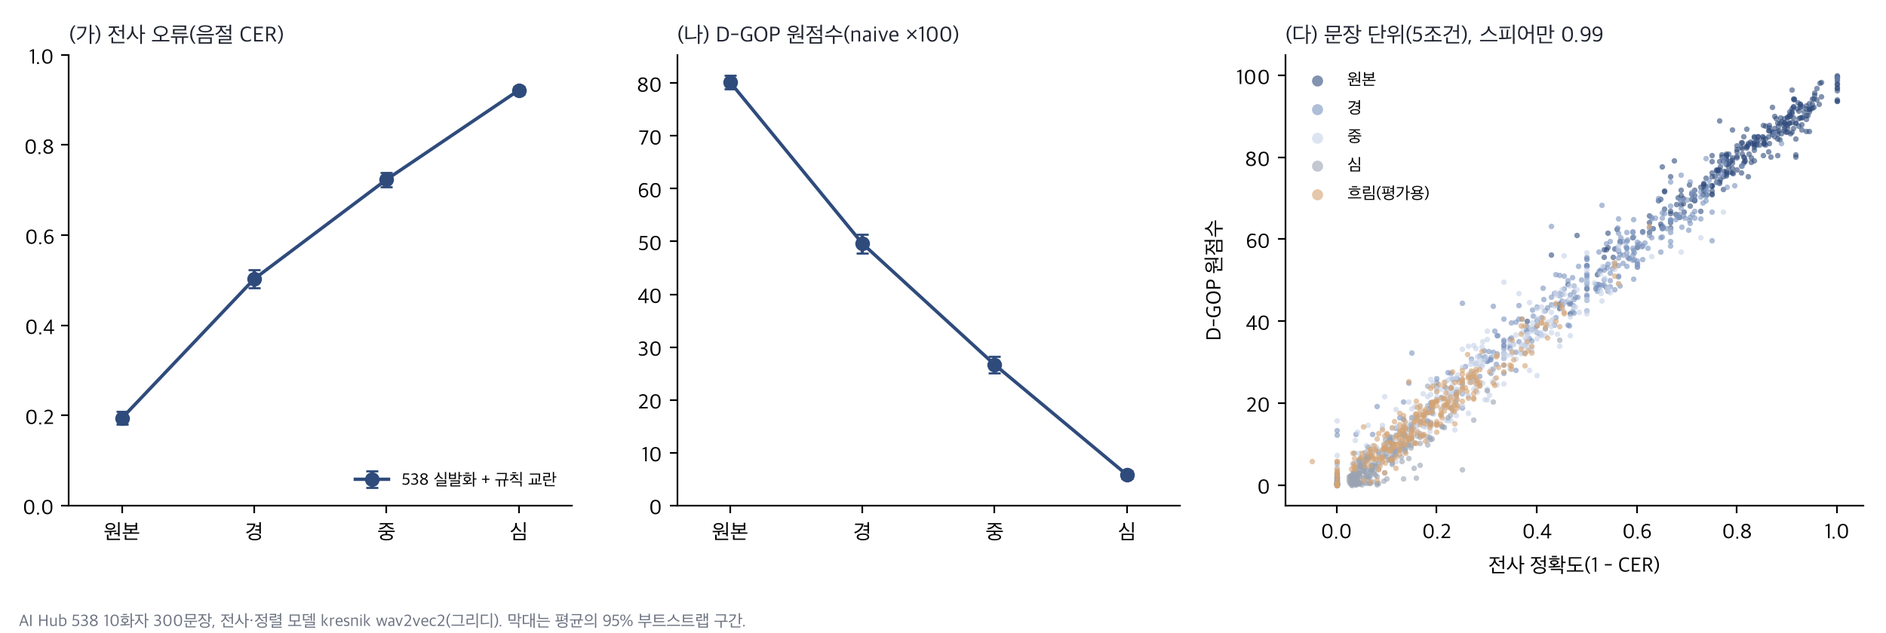
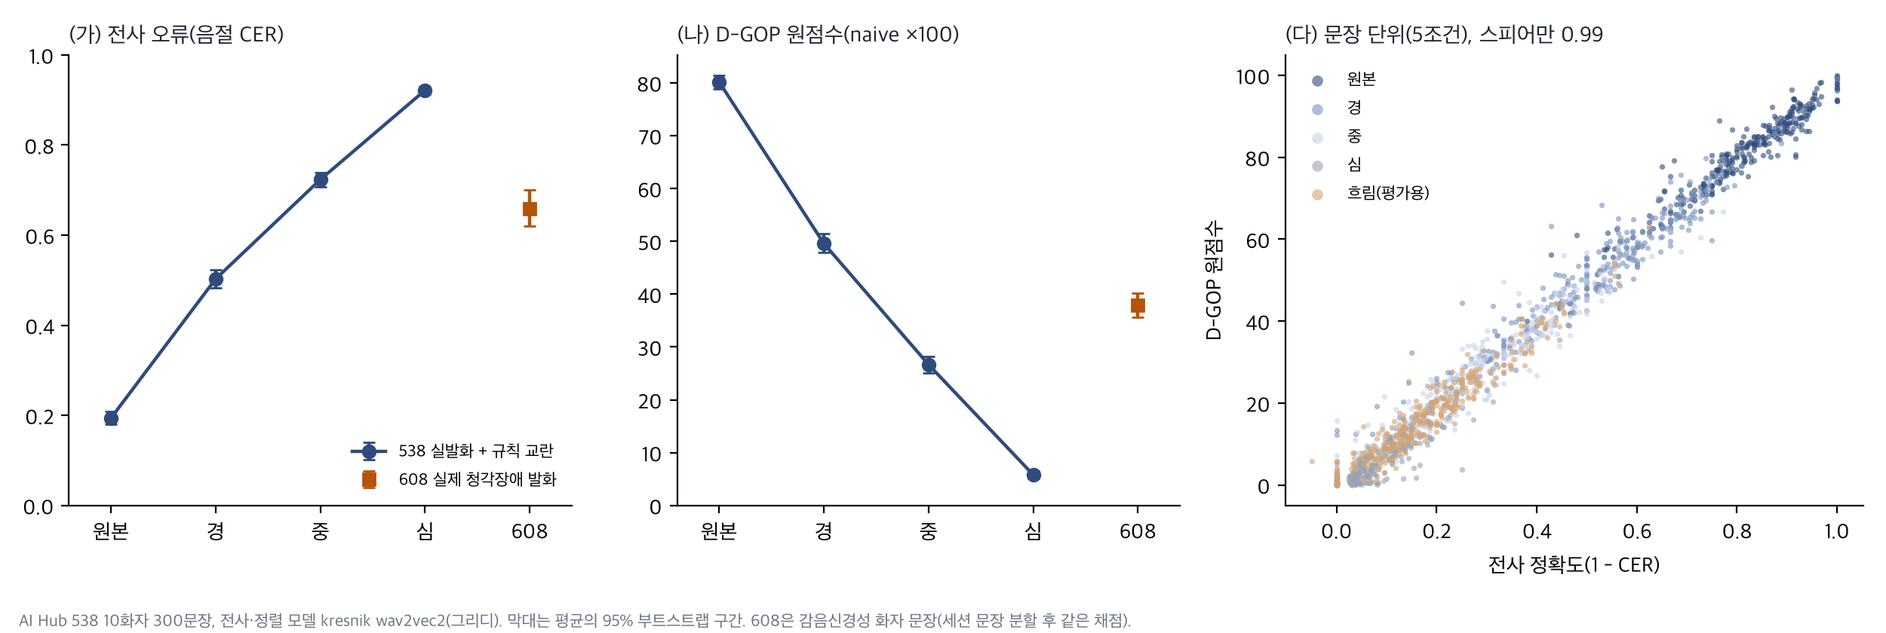
docs(A·B): 자체 채점 모델 학습·재검 통과, 608 실제 청각장애 발화 측정, kNN-VC 부정 결과
- docs/scorer-selftrain.md: 학습(A100 약 3시간), 1차 관문 FAIL(+2.7%p [0.0, 5.7]), 608 분리도 0.892 → 0.933,
  독립 재검 통과(+3.8%p [2.3, 5.5]), 표시 앵커, kNN-VC 충실도(규칙 합성보다 실제 발화와 멂), 맞는·틀린 문장 가르기
  (다른 문장은 두 모델 모두 합격선 아래, 한두 음절 자음 바꿈은 둘 다 못 거름), 호스팅 점검.
- 그림 7에 608 감음신경성 669문장 추가: CER 0.66·D-GOP 38로 합성 경과 중 사이.
- report-notes·팀 공유 현황·STATUS를 9/25 기준으로 갱신(608 확보, 설계 편차, GPU 사용 $64.34).

diff --git a/docs/scorer-selftrain.md b/docs/scorer-selftrain.md
@@ -1,0 +1,129 @@
+# 자체 학습 발음 채점 모델과 실제 청각장애 발화 평가(A-1·A-2·B, 2026-09-25)
+
+팀원 비공개 체크포인트(`duadnwls/liplab-dgop-*`)는 옛 채점식(음소 확률 × 확신도)을 기준으로 설계·검증돼 쓰지 않기로 했다
+(작성자 확인). 같은 레시피(`scripts/train_jamo_ctc.py`, `scripts/train_aligner.py`)로 채점기와 정렬기를 우리가 다시 학습하고,
+지금 앱이 쓰는 공개 모델(kresnik/wav2vec2-large-xlsr-korean)과 같은 채점식(naive, `dgop.sentence_dgop`)·같은 정렬 코드(9/24
+blank 수정판)로 비교했다. 판정 기준은 학습 전에 적었다(`liplab-lab/notes/scorer_prereg_2026-09-25.md`).
+
+요약: 1차 평가(538 10화자)는 단조 비율이 +2.7%p 올랐지만 신뢰구간 하한이 0이라 관문에서 떨어졌고, 실제 청각장애 발화(608)의
+정상 대비 분리도는 0.892에서 0.933으로 올랐다. 1차 뒤 등록한 독립 재검(538 새 20화자)에서 +3.8%p [2.3, 5.5]로 관문을 통과해,
+우리 정렬기·채점기를 liplab-dev 채점 모델 후보로 올렸다(배포 전). 자기지도 음성변환(kNN-VC)은 실제 청각장애 발화를 규칙 합성보다
+덜 닮아 부정 결과로 남긴다.
+
+## 1. 학습(RunPod A100 80GB, 약 3시간)
+
+| 단계 | 설정 | 시간 | 검증 손실 |
+|---|---|---|---|
+| A-1 채점기 stage1 | 출력층만, 3에폭, lr 1e-3 | 9분 | 0.343 → 0.324 |
+| A-1 채점기 stage2 | 전체 311M, 12에폭, lr 3e-5 | 1시간 56분 | 0.304 → 0.222(9/8 H100 기록 0.209) |
+| A-2 정렬기 | A-1에서 이어 4에폭, 저하 severity 0~4 증강 | 43분 | |
+
+데이터는 Zeroth-Korean(공개, 51.6시간)이다. 산출물은 `liplab-lab/models/dgop_ours_2026-09-25/{scorer,aligner}`(각 1.26GB,
+sha256 채점기 `6b960da4…`, 정렬기 `0e586260…`)에 보관했다.
+
+## 2. 평가 1(주 판정): AI Hub 538 실발화 + 합성 저하
+
+538 10화자 300문장에 규칙 저하(경·중·심)를 걸어 문장마다 원점수가 원본 ≥ 경 ≥ 중 ≥ 심 순서인지 본다.
+
+| 모델 | 원본 | 경 | 중 | 심 | 단조 비율 | AUC(원본 > 심) |
+|---|---|---|---|---|---|---|
+| kresnik(지금 앱) | 80.2 | 49.7 | 26.6 | 5.8 | 95.7% | 1.000 |
+| 우리 모델 | 85.0 | 53.6 | 30.5 | 9.2 | 98.3% | 1.000 |
+
+- 단조 비율 +2.7%p, 화자 부트스트랩 95% CI [0.0, 5.7]. 관문(Δ ≥ +2%p **이고 CI 하한 > 0**)에서 하한이 정확히 0이라 **FAIL**이다.
+  AUC는 두 모델 모두 1.000으로 합성 저하가 너무 쉬워 가르지 못한다(9/14 E1과 같은 천장).
+- kresnik 결과는 9/24 재측정(80.2·49.6·26.7·5.8)과 같게 재현됐다.
+
+## 3. 평가 2(보조): 실제 청각장애 발화(AI Hub 608 범주 28 감음신경성)
+
+608 TS02(101GB)를 끝까지 흘려받아 범주 28 세션 27개(27명, 30분 이하, 화자당 1개)를 확보했다. 세션 전체를 kresnik으로
+강제정렬해 문장으로 자르고(`b608_measure.py`, 세션당 최대 40문장) 두 모델로 같은 문장을 채점했다.
+
+| | kresnik | 우리 모델 |
+|---|---|---|
+| 채점된 문장 | 660/669(정렬 실패 9) | 669/669 |
+| 원점수 평균(정상 538 / 청각장애 608) | 80.2 / 38.0 | 85.0 / 50.6 |
+| 분리도 AUC(정상 > 청각장애) | 0.892 | **0.933**(+0.041) |
+
+- 전사 오류(kresnik 음절 CER 평균)는 정상 0.19, 청각장애 0.66(3.4배)이고, 문장 전체를 맞게 옮긴 비율은 1.8%다.
+  그림 7에 608을 더했다(`docs/figures/fig7_b_remeasure.png`): 실제 청각장애 발화는 전사 오류(0.66)로도 D-GOP(38.0)로도
+  합성 '경'(0.50, 49.7)과 '중'(0.72, 26.6) 사이에 놓인다. 규칙 합성의 강도 범위가 실제 발화를 덮는다는 뜻이다(A-10).
+- 표시 점수 확인(A-7): 지금 앱의 kresnik 앵커(`backend/data/dgop_calibration_kresnik.json`)로 환산하면 608 문장은 중앙값
+  66.2점(평균 57.1점)이고, 58점('중' 앵커) 미만 39%, 40점('심' 앵커) 미만 25%다. 바닥이나 천장에 몰리지 않아 앵커를 유지한다.
+- 608 범주 28에는 노인성 난청 화자(70~90대)도 섞여 있어 선천성 농인 발화와 같지 않다.
+
+## 4. 독립 재검(538 spk311~330, 20명 600문장): 통과
+
+1차가 화자 10명이라 신뢰구간이 넓어 경계에서 떨어졌으므로, 1차에 쓰지 않은 화자로 같은 관문을 한 번 더 쟀다(학습·1차 결과를
+본 뒤 실행 전에 등록: `liplab-lab/notes/scorer_prereg_replication_2026-09-25.md`). 두 번째 시험이라 1차와 합치지 않고
+재검 결과만으로 판정한다. 첫 재검 파드는 워치독 마감에 결과를 잃어 같은 설계로 다시 돌렸다(RTX 4090, 추론만).
+
+| 모델 | 원본 | 경 | 중 | 심 | 단조 비율 | AUC(원본 > 심) |
+|---|---|---|---|---|---|---|
+| kresnik(지금 앱) | 79.8 | 53.4 | 29.4 | 5.8 | 95.8% | 1.000 |
+| 우리 모델 | 84.7 | 57.3 | 31.7 | 8.3 | 99.7% | 1.000 |
+
+- 단조 비율 +3.8%p, 화자 부트스트랩 95% CI [2.3, 5.5], AUC 차 0.000으로 세 조건을 모두 만족해 **통과**다.
+  ASR CER은 두 모델이 같다(전사는 둘 다 kresnik, 0.19·0.47·0.70·0.92).
+- 1차(+2.7%p, [0.0, 5.7])와 재검(+3.8%p, [2.3, 5.5]) 모두 같은 방향이다. 보고서에는 1차 FAIL과 재검 통과를 함께 적는다.
+- 사전등록 규칙대로 우리 정렬기·채점기를 liplab-dev 채점 모델 후보로 올린다(6절). 평가 2의 보류 조건(608 분리도가 0.02
+  넘게 낮음)에는 해당하지 않는다(+0.041).
+
+## 5. 보고용 부가 측정(판정에 쓰지 않음)
+
+- A-3(Zeroth test 50발화 합성 저하): 우리 모델 단조성 1.000, 분리도 1.000, 정렬 견고성 1.000(천장).
+- 표시 앵커(우리 모델용, `backend/data/dgop_calibration_ours.json`): kresnik 앵커와 같은 538 10화자 300문장의 조건별 원점수
+  중앙값 86.0·54.5·30.4·8.2를 표시 90·72·58·40에 맞췄다. 맞출 때 쓰지 않은 재검 20화자에서 표시 중앙값은 90.0·74.7·58.9·39.4로
+  거의 그대로다(kresnik 앵커는 같은 화자에서 89.2·75.2·60.7·41.8). 608 실발화는 우리 모델로 표시 중앙값 72.3점(65점 이상 64%)이다.
+  A-4 절차(Zeroth 50발화 severity 0~4)로 맞춘 앵커(91.2·44.6·24.1·7.1·3.0 → 90·72·58·40·20)는 538 조건을 88.5·77.1·63.2·42.0으로
+  매겨 kresnik 앵커와 눈금이 달라 쓰지 않는다.
+- A-2·A-10(자기지도 음성변환 충실도, `liplab-lab/tools/a2_knnvc.py`): kNN-VC(WavLM-large 6층 최근접 이웃, HiFi-GAN)로 538 정상
+  60문장을 608 화자 6명의 목소리로 바꿨다(360개). 변환본은 CER 0.35, D-GOP 65.6으로 원문(0.20, 79.5)에서 조금만 움직였고 실제
+  608(0.66, 38.0)과는 멀다. 실제 608 분포와의 1차 Wasserstein 거리는 CER 기준 kNN-VC 0.33, 규칙 합성 경 0.21·중 0.22·심 0.35,
+  D-GOP 기준 kNN-VC 27.7, 경 16.3·중 17.2·심 32.2다. 목표 화자별로 보면 실제 CER이 0.24~1.00으로 넓은데 변환본은 0.26~0.47에
+  머문다. kNN-VC는 음색을 옮기지만 원문 화자의 조음·운율을 따르므로 청각장애 발화의 명료도 저하는 재현하지 못한다.
+  그래서 합성 코퍼스는 규칙 합성(경~중)을 쓰고, 음성변환은 부정 결과로 보고한다(계획서 A-10의 충실도 확인과 폴백).
+- 맞는 문장과 틀린 문장 가르기(`liplab-lab/tools/mismatch_check.py`, 재검 589클립, 목표 문장 규칙은 `bfuse_validate.py`와 같다):
+
+  | 소리 | 틀린 목표 | kresnik AUC | 우리 AUC | 차이 [95% CI] | 틀린 목표 65점 이상(kresnik / 우리) |
+  |---|---|---|---|---|---|
+  | 원본 | 다른 문장 | 1.000 | 1.000 | 0.000 | 0% / 0% |
+  | 원본 | ㅁ↔ㅂ·ㄴ↔ㄷ 1~2음절 | 0.675 | 0.678 | +0.003 [−0.012, +0.019] | 99% / 100% |
+  | 중 | 다른 문장 | 0.972 | 0.972 | +0.000 [−0.007, +0.008] | 0% / 0% |
+  | 중 | ㅁ↔ㅂ·ㄴ↔ㄷ | 0.545 | 0.524 | −0.021 [−0.027, −0.016] | 26% / 19% |
+  | 심 | 다른 문장 | 0.765 | 0.794 | +0.029 [+0.002, +0.059] | 0% / 0% |
+  | 심 | ㅁ↔ㅂ·ㄴ↔ㄷ | 0.515 | 0.509 | −0.007 [−0.015, +0.002] | 0% / 0% |
+
+  다른 문장을 목표로 주면 두 모델 모두 합격선(65점)을 넘긴 적이 없다. 우리 모델은 틀린 문장에 조금 높은 표시 점수를 주지만
+  (원본 중앙값 50.3점, kresnik 41.2점) 심한 저하에서는 더 잘 가른다. 한두 음절의 비음·파열음 바꿈은 같은 클립 안에서는
+  참 문장이 이기지만(원본 승률 98~99%) 점수 차가 2~3점이라 문장 점수로는 걸러지지 않는다. 문장 점수의 한계이며, 이런 오류는
+  음소별 점수로 보여 줘야 한다.
+- 4.2-11 예비: 608 라벨에는 중증도 등급이 없어(`Disease_info`·`Patient_info`만) 전문가 판정의 대리로 쓸 수 없다. 전사 오류를 명료도
+  대리로 삼으면 화자 27명의 평균 D-GOP(우리 모델)와 평균 CER(1로 자름)의 순위상관은 0.94 [0.83, 0.97]이다. kresnik D-GOP는
+  0.99지만 전사와 같은 모델이라 독립 검증이 아니다. 전문가 판정과의 상관(본 검증)은 라벨셋이 있어야 한다.
+
+## 6. 앱 반영(liplab-dev 후보, 배포 전)
+
+- 배포는 사용자 지시 뒤에 한다. 전시앱(`fly.toml`)은 바꾸지 않는다.
+- 호스팅 점검(이미지와 같은 의존성, torch CPU 2스레드, 실제 음성 3문장, 같은 파드에서 비교):
+
+  | | kresnik(9/24 설정) | 우리 모델 |
+  |---|---|---|
+  | 올라오는 모델 | 1개 + 아바타 백본 | 정렬기·채점기 2개 + 아바타 백본 |
+  | 최대 메모리 | 3.1GB | 5.0GB |
+  | 발음 채점 지연(문장당) | 0.9~1.2초 | 1.6~2.0초 |
+  | 맞는 문장 / 다른 문장 표시 점수 | 86~95 / 0~45 | 88~93 / 45~48 |
+
+- 설정: `fly.dev.toml`이 `DGOP_MODEL=ours`로 빌드하고 `DGOP_ALIGNER_ID`·`DGOP_SCORER_ID`·`DGOP_CALIBRATION`이 이미지 안 체크포인트와
+  앵커를 가리킨다. 기계는 메모리 8GB(shared-cpu 4개)로 올렸다. 체크포인트는 `backend/models/dgop_ours/`에 두고 git에서 뺐으며,
+  없으면 빌드가 멈춘다. 절차와 되돌리기는 `DEPLOY.md` 9항.
+- 이 점검에서 새로 만든 가상환경은 SQLAlchemy 2.1을 받아 greenlet이 빠지고 앱이 뜨지 않았다. `sqlalchemy[asyncio]`로 고쳤고
+  (ba3f8a7) 같은 새 의존성에서 백엔드 테스트 248개가 통과했다. 지금 떠 있는 이미지는 옛 판이라 영향이 없다.
+
+## 7. 원자료
+
+- 학습·1차·608: `liplab-lab/data/pod_runs/20260925_x3epy95m72dfgl/`(b_kresnik·b_ours·b608_*·scorer_compare*·로그)
+- 재검·kNN-VC·호스팅 점검·문장 가르기: `liplab-lab/data/pod_runs/20260925_a39mpqnc24np42/`(eval/rep/rep_*.json·rep_compare.json,
+  eval/a2_knnvc.json, eval/mm/mismatch.json, hostcheck/; a2_samples는 AI Hub 파생이라 저장소 밖에만 둔다)
+- 도구 `liplab-lab/tools/remeasure_b.py`(--aligner/--scorer), `b608_measure.py`(같은 인자, FLAC 입력), `scorer_compare.py`(관문 판정),
+  `a2_knnvc.py`, `mismatch_check.py`, 파드 단계 `tools/pod/run_scorer.sh`·`run_608.sh`·`run_rep2.sh`, 병렬 업로드 `tools/pod/pupload.py`

diff --git a/docs/report-notes.md b/docs/report-notes.md
@@ -24,6 +24,10 @@
   D-GOP 채점은 한국어 CTC 헤드가 필요). 그래서 '모델 하나'가 아니라 '적재·캐시·장치 관리 지점 하나'로 구현했다
   (`backend/backbone_service.py`, 상태 `GET /api/backbone/status`). 같은 모델 id와 장치를 쓰는 축은 가중치 한 벌을 나눠 쓴다.
   보고서에는 "통합 백본 대신 축별 백본을 한 서비스에서 관리"로 쓰고, 그림 12와 맞춘다. AV-HuBERT(A-5)는 라이선스 때문에 쓰지 않았다.
+- **A-2·A-10(자기지도 음성변환 충실도, 9/25, 부정 결과).** kNN-VC(WavLM-large 6층, HiFi-GAN)로 538 정상 60문장을 608 감음신경성
+  화자 6명의 목소리로 바꾼 360개는 CER 0.35·D-GOP 65.6으로, 실제 608(0.66·38.0)보다 원문(0.20·79.5)에 가깝다. 실제 608 분포와의
+  1차 Wasserstein 거리도 규칙 합성 경·중(CER 0.21·0.22, D-GOP 16.3·17.2)보다 멀다(0.33, 27.7). 음색은 옮기지만 원 화자의 조음을
+  따르기 때문이다. 합성 코퍼스는 규칙 합성으로 가고, 계획서 A-10의 충실도 확인 결과로 적는다. 근거: `docs/scorer-selftrain.md` 5절.
 
 ## 축 B. 전사 비의존 발음채점(D-GOP)
 
@@ -44,13 +48,15 @@
   교란 발화를 더 낮게(경 72·중 58) 매긴다. **9/24 결정:** 공개 kresnik 모델을 정렬기·채점기로 쓸 때는 그 모델로 맞춘 후보 앵커를
   쓴다(`backend/data/dgop_calibration_kresnik.json`, 채점기에 따라 자동 선택). 지금 앵커(9/9)는 팀원 채점기용이라 그 모델에
   남긴다. 608 실제 청각장애 발화나 파일럿 발화가 생기면 다시 맞춘다. 근거: `liplab-lab/data/a7_calibration_538_fixed.json`.
-- **실제 청각장애 발화(그림8).** 정상(538, n=40) CER 0.219 대 608 언어청각장애 3화자(n=5) CER 0.401, 약 1.83배.
-  표본이 작다. 608 감음신경성 화자 세션을 문장 단위로 잘라 CER과 D-GOP를 다시 재려 했으나(`liplab-lab/tools/b608_measure.py`),
-  9/24 TS02(108GB)를 끝까지 흘려받고 보니 라벨로 고른 38세션이 TS02에 없었다. TS02에는 범주 28(감음신경성) 185파일이 약
-  93GB 지점부터 있고 범주 32는 없다(608의 검증 묶음은 뇌신경장애뿐이라 다른 출처도 없다). 범주 28을 화자별로 고르는
-  다시 받기는 2차에서 끝까지 갔지만 범주 28 wav가 deflate 압축이라 저장 방식만 받던 코드가 모두 건너뛰었고, 풀기를 더한
-  3·4차는 서버 연결이 끊겼다(직후 재시작은 곧바로, 4차는 42GB에서). 서버가 범위 요청을 받지 않아 약 3시간을 끊김 없이
-  받아야 한다. 그래서 608 측정과 이를 쓰는 kNN-VC(A-2)는 아직 없다.
+  **9/25 608 확인:** 이 앵커로 실제 청각장애 발화 669문장은 중앙값 66.2점(평균 57.1점), 58점 미만 39%, 40점 미만 25%로
+  바닥·천장에 몰리지 않아 앵커를 유지한다. 근거: `docs/scorer-selftrain.md` 3절.
+- **실제 청각장애 발화(그림8, 9/25 측정).** 608 TS02(101GB)를 끝까지 흘려받아 범주 28(감음신경성) 세션 27개(27명, 30분 이하,
+  화자당 1개)를 확보했다(9/24에는 라벨로 고른 세션이 TS02에 없었고, 범주 28은 deflate 압축이라 풀기를 더해 다시 받았다).
+  세션을 kresnik 강제정렬로 문장 단위로 잘라(세션당 최대 40문장, 669문장) 538과 같은 채점으로 쟀다(`liplab-lab/tools/b608_measure.py`).
+  kresnik 음절 CER 평균은 정상 0.19 대 청각장애 0.66(3.4배), 문장 전체를 맞게 옮긴 비율은 약 4% 대 1.8%, D-GOP 원점수는
+  80.2 대 38.0이다. 실제 발화는 CER로도 D-GOP로도 합성 '경'과 '중' 사이에 놓인다(그림 7에 608 추가). 9/23의 1.83배(n=5)는
+  이 값으로 바꾼다. 범주 28에는 노인성 난청(70~90대)도 섞여 있어 선천성 농인 발화와 같지 않다고 적는다.
+  근거: `docs/scorer-selftrain.md` 3절, `docs/figures/fig7_b_remeasure.png`.
 - **B-5·B-6(9/24 구현, 검증 결과 판별력 저하).** 음소마다 소리 점수와 입모양 점수를 섞는다(영상 가중 0.25 + 0.5 × (1 − 소리/100),
   음소 정렬 구간 ±0.08초의 웹캠 입모양). 538 200클립 검증에서 맞는 문장과 다른 문장을 가르는 AUC가 소리만보다 낮았다
   (심 교란 0.778 → 0.583, 중 0.974 → 0.800). 지금 입모양 점수(규칙 프로파일 코사인)는 그 자체로 우연 수준(AUC 0.49~0.53)이라
@@ -60,6 +66,13 @@
 - **B-8(호스팅에서 D-GOP 켜기, 9/24 코드 반영, 배포 전).** 개발 서버(liplab-dev) 설정이 torch CPU와 모델 두 개를 이미지에 넣고
   D-GOP를 주 경로로 쓴다(전사는 폴백). 전시앱 설정은 그대로다. 자세한 내용은 `DEPLOY.md` 9항.
   배포 전 점검(같은 의존성, CPU 2스레드): 최대 메모리 3.1GB, 채점 문장당 1.4~1.7초, 맞는 문장 86~95점·다른 문장 0~45점.
+- **자체 학습 정렬기·채점기(A-1·A-2 레시피 재학습, 9/25).** 팀원 체크포인트는 옛 채점식 기준이라 쓰지 않고, 같은 레시피로
+  Zeroth(공개)에서 다시 학습했다(RunPod A100 약 3시간). 사전등록 관문(538 합성 저하 단조 비율 +2%p 이상, 화자 부트스트랩 CI
+  하한 > 0)에서 1차(10화자)는 +2.7%p [0.0, 5.7]로 떨어졌고, 1차 뒤 등록한 독립 재검(새 20화자)은 +3.8%p [2.3, 5.5]로 통과했다.
+  실제 청각장애 발화(608 27명 669문장)의 정상 대비 분리도 AUC는 kresnik 0.892, 자체 0.933. 다른 문장을 목표로 주면 두 모델 모두
+  합격선을 넘지 않고, 한두 음절 비음·파열음 바꿈은 둘 다 문장 점수로 거르지 못한다(음소별 점수로 보여 줄 부분).
+  liplab-dev 채점 모델을 자체 모델로 바꿨다(배포 전, 메모리 5.0GB라 8GB 기계). 보고서에는 1차 FAIL과 재검 통과를 함께 적는다.
+  근거: `docs/scorer-selftrain.md`.
 
 ## 축 C. 시각 지각공간
 
@@ -194,14 +207,17 @@
 1구간 점검(`docs/checkpoint-2026-09.md`)에서 권고한 설계 변경을 9/24에 확정했다. 보고서에는 계획서 대비 편차로 적는다.
 
 - 공유 백본 하나(A-6, 표7-①, 1.4) 대신 축별 경량 모델과 공용 적재 서비스(A-9). AV-HuBERT(A-5)는 쓰지 않는다.
-- 당사자 발화 수집(A-3)은 AI Hub 608 청각장애 발화(확보되면)와 파일럿 동의 범위 안의 발화로 대신한다.
+- 당사자 발화 수집(A-3)은 AI Hub 608 청각장애 발화(9/25 확보, 감음신경성 27명)와 파일럿 동의 범위 안의 발화로 대신한다.
+- B 채점 모델은 팀원 체크포인트 대신 같은 레시피로 다시 학습한 자체 정렬기·채점기(XLS-R 계열 kresnik 인코더를 자모 CTC로
+  미세조정, WavLM 초기화 아님)를 쓴다(9/25 재검 통과). A의 자기지도 음성변환(kNN-VC)은 충실도가 낮아 규칙 합성으로 간다.
 - B의 불확실성 보정 항(표6-B2)은 효과가 없어 빼고 naive 채점과 표시 앵커 보정으로 간다. 소리·입모양 융합은 채점에 섞지 않는다.
 - C의 수작업 계수는 대체하지 않고 병행(C-3). 조음 학습은 USC-TIMIT만 쓴다(MNGU0 제외, E-3·4.2-3).
 - F는 TalkingHead 대신 자체 한국어 비심 엔진(F-8). G는 신규 DB 표 대신 검수 승인 JSON 판본(G-7, 표7-⑨).
 - K는 목 부위를 하지 않고(K-1), 유성 추정은 부정 결과로 확정한다(K-3). K→J는 규칙 기호만(K-4).
 - 3D 성도 해부 모델(표8-③, US$207)은 사지 않고 VocalTractLab 정중시상 단면으로 대체한다. 구매 모델은 정지 메시라 자모별
   포즈를 손으로 만들어야 하고, VTL 단면은 합성음·포먼트와 맞물린다(`docs/e6-vocaltractlab.md` 12절).
-- SpeechSuper 대조군(표8-⑤, 4.2-15)은 608 청각장애 발화를 확보한 뒤 구매한다. 화자별 CC5 얼굴(H-6)은 자산이 오면 넣는다.
+- SpeechSuper 대조군(표8-⑤, 4.2-15)은 608 청각장애 발화를 확보한 뒤 구매하기로 했고, 9/25 확보해 구매 여부만 남았다(사용자 결정).
+  화자별 CC5 얼굴(H-6)은 자산이 오면 넣는다.
 - 립싱크 엔진 지속시간 상수는 그대로 두고 2x를 실제 말 빠르기로 안내한다(`docs/engine-duration-check.md`).
 - 개발 서버는 둘러보기 데모 계정만 전 단계를 열고 실사용·파일럿 계정은 숙달 순서대로 연다(`LIPLAB_UNLOCK_ALL=demo`).
 
@@ -226,8 +242,8 @@
   모델·규칙, 서버와 기기 안(영상 미전송)의 구분, 연구 전용 흐름(점선), 지식추적에서 문항 선택으로 돌아가는 순환을 그렸다.
 - **그림 6·7 대응 → `docs/figures/fig7_b_remeasure.png`.** 계획서의 그림 6·7은 영어 낭독음(LibriSpeech), 그림 8은 한국어 합성음이었다.
   538 실발화 300문장 재측정으로 같은 논지(전사 비의존 지표가 저하 강도에 연속적으로 반응)를 한국어 실발화에서 보인다:
-  (가) 전사 오류, (나) D-GOP의 강도별 평균, (다) 문장 단위 상관 0.99(9/24 정렬 수정판으로 다시 그림). 608 결과가 오면 `--b608`로
-  실제 청각장애 발화를 더한다.
+  (가) 전사 오류, (나) D-GOP의 강도별 평균, (다) 문장 단위 상관 0.99(9/24 정렬 수정판으로 다시 그림). 9/25 `--b608`로
+  실제 청각장애 발화(608 감음신경성 669문장)를 (가)·(나)에 더했다. 실제 발화는 두 지표 모두 합성 경과 중 사이에 놓인다.
 - 다시 그리기: `python3 scripts/make_report_figures.py [--b608 b608.json]`(시스템 python의 matplotlib).
 
 ## 참고문헌 후보(J-13, K-6)

diff --git a/docs/고도화_현황_팀공유.md b/docs/고도화_현황_팀공유.md
@@ -1,9 +1,18 @@
 # LIPLAB 고도화 현황 (팀 공유)
 
-> 갱신 2026-09-24 밤 · 브랜치 `integrate/2026-09-23`(원격에 올라가 있음) · 전시앱 `liplab.fly.dev`는 건드리지 않았다.
+> 갱신 2026-09-25 아침 · 브랜치 `integrate/2026-09-23`(원격에 올라가 있음) · 전시앱 `liplab.fly.dev`는 건드리지 않았다.
 > 수치의 근거와 보고서 문구는 `docs/report-notes.md`, 작업 순서는 `STATUS.md`에 있다.
 
-## 1. 이번 통합과 9/24 추가
+## 1. 이번 통합과 9/24·9/25 추가
+
+- **9/25: 발음 채점 모델을 직접 학습했다.** 팀원 체크포인트는 옛 채점식 기준이라 쓰지 않고, 같은 레시피로 채점기·정렬기를
+  공개 자료(Zeroth)로 다시 학습했다(RunPod A100 약 3시간). 학습 전에 적은 관문에서 1차(538 10화자)는 강도 순서 +2.7%p
+  [0.0, 5.7]로 경계에서 떨어졌고, 1차 뒤 등록한 독립 재검(새 20화자)은 +3.8%p [2.3, 5.5]로 통과했다. 실제 청각장애 발화의
+  정상 대비 분리도는 0.892에서 0.933으로 올랐다. 그래서 개발 서버 채점 모델을 자체 모델로 바꿨다(배포 전, `docs/scorer-selftrain.md`).
+- **9/25: 608 실제 청각장애 발화를 확보했다.** 감음신경성 27명 669문장. 전사 오류 0.66(정상 0.19), D-GOP 38(정상 80)로
+  합성 경과 중 사이에 놓인다(그림 7). 자기지도 음성변환(kNN-VC)으로 만든 발화는 실제 발화를 규칙 합성보다 덜 닮아 부정 결과로 남긴다.
+- **9/25: 배포 전 점검에서 결함 하나를 고쳤다.** 새로 빌드하면 SQLAlchemy 2.1이 들어와 greenlet이 빠지고 서버가 뜨지 않았다
+  (`sqlalchemy[asyncio]`로 수정, 지금 떠 있는 전시앱은 옛 이미지라 영향 없음).
 
 - 두 브랜치(`feat/content-scale`, `feat/sublexical-feedback`)를 새 통합 브랜치로 합쳤다. 원래 브랜치는 그대로 두었다.
   발음 채점식은 팀 표준(naive D-GOP), 화면은 Figma 디자인, 촉각 기능은 뺐다.
@@ -13,17 +22,17 @@
   콘텐츠 월간 루틴 초안(`docs/content-routine.md`).
 - **D-GOP 정렬 결함을 찾아 고치고 다시 쟀다.** kresnik 모델의 CTC blank는 `[PAD]`인데 정렬이 id 0 음절 '볍'을 blank로 썼다.
   고친 뒤 538 원점수는 원본 80.2·경 49.6·중 26.7·심 5.8(예전 16.4·9.1·5.3·2.1), 강도 순서 95.7%, 전사 정확도와 0.986이다.
-- 개발 서버(liplab-dev) 서버 추론 설정을 배포 전에 파드에서 점검했다: 최대 메모리 3.1GB(4GB 기계), 발음 채점 문장당 1.4~1.7초,
-  맞는 문장 86~95점·다른 문장 0~45점. 배포는 아직 하지 않았다(`DEPLOY.md` 9항).
-- 테스트: 백엔드 248개, 프론트 72개 통과, 프로덕션 빌드 통과.
+- 개발 서버(liplab-dev) 서버 추론 설정을 배포 전에 파드에서 점검했다. 9/25 자체 모델 설정은 최대 메모리 5.0GB(그래서 8GB 기계),
+  발음 채점 문장당 1.6~2.0초, 맞는 문장 88~93점·다른 문장 45~48점(합격선 65 미만). 배포는 아직 하지 않았다(`DEPLOY.md` 9항).
+- 테스트: 백엔드 249개, 프론트 72개 통과, 프로덕션 빌드 통과.
 
 ## 2. 축별 현황
 
 | 축 | 제품에 들어간 것 | 실측 | 한계와 다음 |
 |---|---|---|---|
 | A | 음성구동 아바타(동결 WavLM + BiGRU, 20화자), 백본 서비스 | 처음 보는 10화자 jawOpen r **0.627**(A2, 첫 정직한 추정). 합성 심 교란에서는 0.07~0.10 | A1 증강은 '승자 없음'. 제품 모델은 그대로 |
-| A | 농인 발화 합성(규칙 교란 경·중·심) | 538 300문장 CER 0.194→0.922, D-GOP 80.2→5.8 | 608 음성(범주 28)은 다시 받는 중, kNN-VC는 그 뒤 |
-| B | D-GOP 발음채점(소리만 채점, 입모양 점수는 따로 표시) | D-GOP와 전사 정확도 0.986. 융합은 판별력을 낮춰(입모양 점수가 우연 수준) 채점에서 뺐다 | 개발 서버에서 D-GOP 켜는 설정 반영(배포 대기). 팀원 모델은 HF 토큰 재측정 뒤 |
+| A | 농인 발화 합성(규칙 교란 경·중·심) | 538 300문장 CER 0.194→0.922, D-GOP 80.2→5.8. 실제 608은 경과 중 사이 | kNN-VC 음성변환은 충실도가 낮아(부정 결과) 규칙 합성 유지 |
+| B | D-GOP 발음채점(소리만 채점, 입모양 점수는 따로 표시) | D-GOP와 전사 정확도 0.986. 자체 학습 모델 재검 통과(+3.8%p), 608 분리도 0.933. 융합은 판별력을 낮춰 채점에서 뺐다 | 개발 서버 채점 모델을 자체 모델로(배포 대기). 한두 음절 자음 바꿈은 문장 점수로 못 거른다(음소별 표시 필요) |
 | C | 동구형이음 사전·난이도 지수·공개 자원 **1.3.0**(단어 528) | 30화자 데이터 공간 균형 정확도 0.366·0.408, 손코딩과 0.39·0.28. 데이터판 난이도는 규칙판과 ρ 0.32 | 규칙이 주, 데이터는 보조. ㅐ·ㅣ 근접, ㅃ 분리는 파일럿으로 확인 |
 | D | 웹캠 입모양 채점, 자체 립리딩 ONNX(기기 안에서만) | 벤치마크 v2(30화자) D6 top-1 **18.6%**(어휘 450, 최빈어 3.7), 사전 기준 통과. 기계 혼동이 동구형이음 사전을 뒷받침(25배). 입술 영역 3D-CNN은 7.6%(부정 결과) | 제품 모델 교체 제안은 채점 방식(P1)·재학습(P2, 9/24 밤) 모두 관문 미달. 둘을 합치면 +5점대라 새 화자로 다시 확인할 일 |
 | E | 웹캠 교정, 모음 포먼트 교정 + **VTL 성도 단면**(추정 혀 모양) | 영어 EMA 역추정 처음 듣는 화자 RMSE 2.11mm(평균 자세 기준선 2.41mm), r 0.41(미이식). VTL 모음 8개 모두 코치 허용 범위 | 역추정은 오차 감소가 약 12%라 제품에 넣지 않는다 |
@@ -37,12 +46,11 @@
 
 ## 3. 데이터와 GPU
 
-- 538: 30화자 900클립 확보. 608: 네 번 받았으나 0개(고른 세션이 TS02에 없음, 범주 28 wav가 deflate 압축, 연결 끊김).
-  서버가 범위 요청을 받지 않아 약 3시간을 끊김 없이 받아야 한다. 다시 할지는 결정 필요.
-- RunPod: 세션 2~5 모두 끝나 파드 종료(세션 5에서 조음 역추정 mm 오차). 잔액 $19.34.
-- GPU 원장(`liplab-lab/notes/gpu-ledger.md`, 집행대장 GPU원장 시트): 사용 $55.66, H100 5.2시간(계획 약 370시간).
-  LIPLAB 사용분의 묶음별 비율 A 40%(계획 40%), B·E 25%(35%), D 16%(25%), C·K 각 9%. 파드 1대($1.72)는 다른 과제에 쓰여
-  '기타'로 적었고 프로젝트 예산으로 처리한다(9/24 결정).
+- 538: 30화자 900클립 확보. 608: 9/25 TS02(101GB)를 끝까지 흘려받아 감음신경성 27세션을 확보했다(AI Hub 데이터라 저장소 밖에만 둔다).
+- RunPod: 9/25 작업까지 모두 끝나 파드 없음. 잔액 약 $10.
+- GPU 원장(`liplab-lab/notes/gpu-ledger.md`, 집행대장 GPU원장 시트): 사용 $64.34(오늘 아침 파드 약 $0.6은 청구 반영 전),
+  H100 5.2시간(계획 약 370시간, 9/25 학습은 H100 재고가 없어 A100). LIPLAB 사용분의 묶음별 비율 A 41%(계획 40%),
+  B·E 28%(35%), D 15%(25%), C·K 각 8%. 파드 1대($1.72)는 다른 과제에 쓰여 '기타'로 적었고 프로젝트 예산으로 처리한다(9/24 결정).
 
 ## 4. 공개 전에 정해야 할 것
 

diff --git a/STATUS.md b/STATUS.md
@@ -1,5 +1,21 @@
 # 지금 상태 — 다시 들어왔을 때 여기부터
 
+> **2026-09-25 아침: 자체 학습 채점 모델 채택(liplab-dev 설정만, 배포 안 함)과 608 실발화 측정.**
+> - **자체 정렬기·채점기.** 팀원 체크포인트(옛 채점식 기준) 대신 같은 레시피(`scripts/train_jamo_ctc.py`·`train_aligner.py`)로
+>   Zeroth에서 다시 학습(RunPod A100 약 3시간). 사전등록 관문(538 합성 저하 강도 순서 +2%p 이상, 화자 부트스트랩 CI 하한 > 0):
+>   1차 10화자 +2.7%p [0.0, 5.7] FAIL, 1차 뒤 등록한 독립 재검 20화자 +3.8%p [2.3, 5.5] **통과**. 608 실발화 분리도 0.892 → 0.933.
+>   다른 문장은 두 모델 모두 합격선을 못 넘고, 한두 음절 자음 바꿈은 둘 다 문장 점수로 못 거른다. 전부 `docs/scorer-selftrain.md`.
+> - **liplab-dev를 자체 모델로.** `fly.dev.toml` `DGOP_MODEL=ours`, 체크포인트는 `backend/models/dgop_ours/`(git 제외, 빌드 폴더에
+>   APFS 복제로 둠, 없으면 빌드가 멈춤), 앵커 `backend/data/dgop_calibration_ours.json`(538 중앙값 → 90·72·58·40), 기계 8GB·CPU 4개
+>   (점검 최대 5.0GB, 문장당 1.6~2.0초). 되돌리기는 `DEPLOY.md` 9항. 새 가상환경 점검에서 SQLAlchemy 2.1이 greenlet을 빼 서버가
+>   안 뜨는 결함을 고쳤다(ba3f8a7).
+> - **608 확보(감음신경성 27명 669문장).** CER 0.66(정상 0.19), D-GOP 38(정상 80)로 합성 경~중 사이, 그림 7에 608 추가. 지금
+>   kresnik 앵커로 608은 중앙값 66점이라 앵커 유지(A-7). kNN-VC 음성변환은 규칙 합성보다 실제 발화를 덜 닮아 부정 결과(A-2·A-10).
+> - 계획서 이행률 72%(부분 인정 82%), HF 토큰 대기 11개가 모두 풀림(`liplab-lab/notes/plan_audit/progress_2026-09-25.md`).
+>   GPU 원장·집행대장 갱신(사용 $64.34, 잔액 약 $10). 파드 없음. 백엔드 pytest 249 통과.
+> - 남은 사용자 몫: "배포해"(liplab-dev, 8GB 기계 비용 확인), 파일럿 윤리·협력기관, 보관 기간·보호책임자, 공개 채널, CC5 얼굴,
+>   SpeechSuper 구매 여부, 랜딩 페이지(Figma 9:12) 만들지 여부.
+
 > **2026-09-24 밤 — 배포 전 점검과 Figma 재점검 후속(코드만, 배포 안 함).**
 > - **배포 전 파드 점검 통과.** liplab-dev 추론 설정과 같은 의존성(torch CPU 2스레드)에서 최대 메모리 3.1GB, D-GOP 채점 문장당
 >   1.4~1.7초, 맞는 문장 86~95점·다른 문장 0~45점, 입모양 점수는 따로, 데모 계정만 전 단계 열림(`DEPLOY.md` 9항). 이 점검에서
